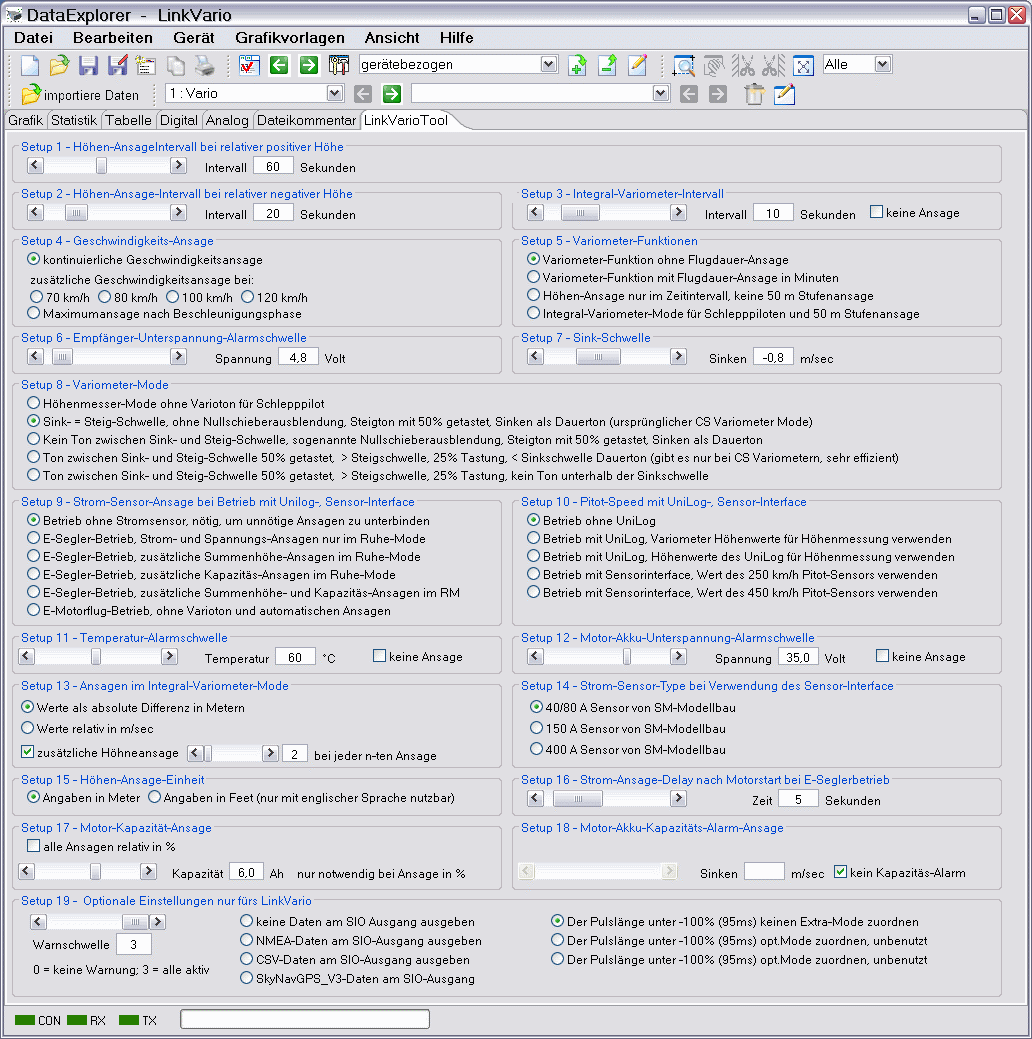
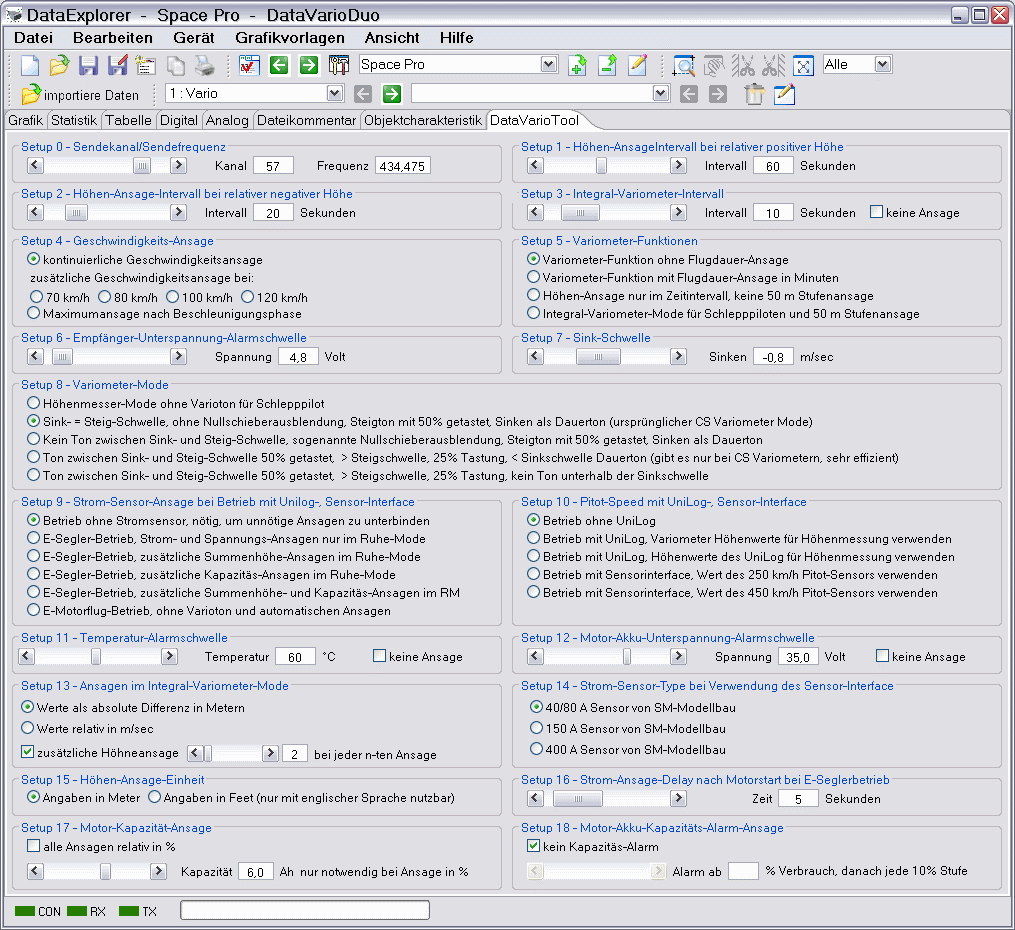
fix error setup 18 DataVarioTool/LinkVarioTool

Changed region(s): [[0.0, 0.0, 1.0, 0.9978]]

diff --git a/WStechVario/src/gde/device/wstech/VarioToolTabItem.java b/WStechVario/src/gde/device/wstech/VarioToolTabItem.java
@@ -40,7 +40,6 @@ import org.eclipse.swt.custom.ScrolledComposite;
 import org.eclipse.swt.events.SelectionAdapter;
 import org.eclipse.swt.events.SelectionEvent;
 import org.eclipse.swt.layout.FillLayout;
-import org.eclipse.swt.layout.GridLayout;
 import org.eclipse.swt.layout.RowData;
 import org.eclipse.swt.layout.RowLayout;
 import org.eclipse.swt.widgets.Button;
@@ -1772,7 +1771,7 @@ public class VarioToolTabItem extends CTabItem {
 							this.setupButton17.setFont(SWTResourceManager.getFont(GDE.WIDGET_FONT_NAME, GDE.WIDGET_FONT_SIZE, SWT.NORMAL));
 							this.setupButton17.setText(Messages.getString(MessageIds.GDE_MSGT1874));
 							RowData setupButton17LData = new RowData();
-							setupButton17LData.width = 460;
+							setupButton17LData.width = 465;
 							setupButton17LData.height = 18;
 							this.setupButton17.setLayoutData(setupButton17LData);
 							this.setupButton17.setSelection((this.setupValue17 & 0x80) == 0x80);
@@ -1793,7 +1792,7 @@ public class VarioToolTabItem extends CTabItem {
 						}
 						{
 							RowData setupSlider17LData = new RowData();
-							setupSlider17LData.width = 139;
+							setupSlider17LData.width = 140;
 							setupSlider17LData.height = 18;
 							this.setupSlider17 = new Slider(this.setupGroup17, SWT.BORDER);
 							this.setupSlider17.setLayoutData(setupSlider17LData);
@@ -1820,7 +1819,7 @@ public class VarioToolTabItem extends CTabItem {
 						{
 							this.setupLabel17a = new CLabel(this.setupGroup17, SWT.RIGHT);
 							RowData setupLabel17aLData = new RowData();
-							setupLabel17aLData.width = 66;
+							setupLabel17aLData.width = 65;
 							setupLabel17aLData.height = 18;
 							this.setupLabel17a.setLayoutData(setupLabel17aLData);
 							this.setupLabel17a.setFont(SWTResourceManager.getFont(GDE.WIDGET_FONT_NAME, GDE.WIDGET_FONT_SIZE, SWT.NORMAL));
@@ -1829,7 +1828,7 @@ public class VarioToolTabItem extends CTabItem {
 						{
 							this.setupText17 = new Text(this.setupGroup17, SWT.CENTER | SWT.BORDER);
 							RowData setupText17LData = new RowData();
-							setupText17LData.width = 29;
+							setupText17LData.width = 30;
 							setupText17LData.height = 12;
 							this.setupText17.setLayoutData(setupText17LData);
 							this.setupText17.setFont(SWTResourceManager.getFont(GDE.WIDGET_FONT_NAME, GDE.WIDGET_FONT_SIZE, SWT.NORMAL));
@@ -1838,20 +1837,11 @@ public class VarioToolTabItem extends CTabItem {
 						{
 							this.setupLabel17b = new CLabel(this.setupGroup17, SWT.LEFT);
 							RowData setupLabel17bLData = new RowData();
-							setupLabel17bLData.width = 24;
+							setupLabel17bLData.width = 210;
 							setupLabel17bLData.height = 18;
 							this.setupLabel17b.setLayoutData(setupLabel17bLData);
 							this.setupLabel17b.setFont(SWTResourceManager.getFont(GDE.WIDGET_FONT_NAME, GDE.WIDGET_FONT_SIZE, SWT.NORMAL));
 							this.setupLabel17b.setText(Messages.getString(MessageIds.GDE_MSGT1876));
-						}
-						{
-							this.setupLabel17c = new CLabel(this.setupGroup17, SWT.NONE);
-							RowData setupLabel17cLData = new RowData();
-							setupLabel17cLData.width = 194;
-							setupLabel17cLData.height = 18;
-							this.setupLabel17c.setLayoutData(setupLabel17cLData);
-							this.setupLabel17c.setFont(SWTResourceManager.getFont(GDE.WIDGET_FONT_NAME, GDE.WIDGET_FONT_SIZE, SWT.NORMAL));
-							this.setupLabel17c.setText(Messages.getString(MessageIds.GDE_MSGT1877));
 						}
 						this.setupGroup17.layout();
 						this.setupGroup17.setMenu(this.popupmenu);
@@ -1864,21 +1854,40 @@ public class VarioToolTabItem extends CTabItem {
 						this.setupGroup18.setText(Messages.getString(MessageIds.GDE_MSGT1878));
 						this.setupGroup18.setBounds(505, 687, 490, 71);
 						{
-							this.fillComposite = new Composite(this.setupGroup18, SWT.NONE);
-							GridLayout fillCompositeLayout = new GridLayout();
-							fillCompositeLayout.makeColumnsEqualWidth = true;
-							this.fillComposite.setLayout(fillCompositeLayout);
-							RowData fillCompositeLData = new RowData();
-							fillCompositeLData.width = 460;
-							fillCompositeLData.height = 12;
-							this.fillComposite.setLayoutData(fillCompositeLData);
+							new CLabel(this.setupGroup18, SWT.NONE).setSize(5, 18);
+						}
+						{
+							this.setupButton18 = new Button(this.setupGroup18, SWT.CHECK | SWT.LEFT);
+							this.setupButton18.setFont(SWTResourceManager.getFont(GDE.WIDGET_FONT_NAME, GDE.WIDGET_FONT_SIZE, SWT.NORMAL));
+							this.setupButton18.setText(Messages.getString(MessageIds.GDE_MSGT1881));
+							RowData setupButton18LData = new RowData();
+							setupButton18LData.width = 470;
+							setupButton18LData.height = 18;
+							this.setupButton18.setLayoutData(setupButton18LData);
+							this.setupButton18.setSelection(this.setupValue18 == 0);
+							this.setupButton18.addSelectionListener(new SelectionAdapter() {
+								public void widgetSelected(SelectionEvent evt) {
+									VarioToolTabItem.log.log(Level.FINEST, "setupButton18.widgetSelected, event=" + evt); //$NON-NLS-1$
+									if (VarioToolTabItem.this.setupButton18.getSelection()) {
+										VarioToolTabItem.this.setupValue18 = 0;
+										VarioToolTabItem.this.setupText18.setText(GDE.STRING_EMPTY);
+										VarioToolTabItem.this.setupSlider18.setEnabled(false);
+									}
+									else {
+										VarioToolTabItem.this.setupValue18 = 20;
+										VarioToolTabItem.this.setupText18.setText(GDE.STRING_EMPTY + VarioToolTabItem.this.setupValue18);
+										VarioToolTabItem.this.setupSlider18.setEnabled(true);
+										VarioToolTabItem.this.setupSlider18.setSelection(VarioToolTabItem.this.setupValue18);
+									}
+								}
+							});
 						}
 						{
 							new CLabel(this.setupGroup18, SWT.NONE).setSize(5, 18);
 						}
 						{
 							RowData setupSlider18LData = new RowData();
-							setupSlider18LData.width = 160;
+							setupSlider18LData.width = 140;
 							setupSlider18LData.height = 18;
 							this.setupSlider18 = new Slider(this.setupGroup18, SWT.BORDER);
 							this.setupSlider18.setLayoutData(setupSlider18LData);
@@ -1906,7 +1915,7 @@ public class VarioToolTabItem extends CTabItem {
 						{
 							this.setupLabel18a = new CLabel(this.setupGroup18, SWT.RIGHT);
 							RowData setupLabel18aLData = new RowData();
-							setupLabel18aLData.width = 60;
+							setupLabel18aLData.width = 55;
 							setupLabel18aLData.height = 18;
 							this.setupLabel18a.setLayoutData(setupLabel18aLData);
 							this.setupLabel18a.setFont(SWTResourceManager.getFont(GDE.WIDGET_FONT_NAME, GDE.WIDGET_FONT_SIZE, SWT.NORMAL));
@@ -1915,7 +1924,7 @@ public class VarioToolTabItem extends CTabItem {
 						{
 							this.setupText18 = new Text(this.setupGroup18, SWT.CENTER | SWT.BORDER);
 							RowData setupText18LData = new RowData();
-							setupText18LData.width = 35;
+							setupText18LData.width = 25;
 							setupText18LData.height = 12;
 							this.setupText18.setLayoutData(setupText18LData);
 							this.setupText18.setFont(SWTResourceManager.getFont(GDE.WIDGET_FONT_NAME, GDE.WIDGET_FONT_SIZE, SWT.NORMAL));
@@ -1926,37 +1935,11 @@ public class VarioToolTabItem extends CTabItem {
 						{
 							this.setupLabel18b = new CLabel(this.setupGroup18, SWT.LEFT);
 							RowData setupLabel18bLData = new RowData();
-							setupLabel18bLData.width = 43;
+							setupLabel18bLData.width = 230;
 							setupLabel18bLData.height = 16;
 							this.setupLabel18b.setLayoutData(setupLabel18bLData);
 							this.setupLabel18b.setFont(SWTResourceManager.getFont(GDE.WIDGET_FONT_NAME, GDE.WIDGET_FONT_SIZE, SWT.NORMAL));
 							this.setupLabel18b.setText(Messages.getString(MessageIds.GDE_MSGT1880));
-						}
-						{
-							this.setupButton18 = new Button(this.setupGroup18, SWT.CHECK | SWT.LEFT);
-							this.setupButton18.setFont(SWTResourceManager.getFont(GDE.WIDGET_FONT_NAME, GDE.WIDGET_FONT_SIZE, SWT.NORMAL));
-							this.setupButton18.setText(Messages.getString(MessageIds.GDE_MSGT1881));
-							RowData setupButton18LData = new RowData();
-							setupButton18LData.width = 144;
-							setupButton18LData.height = 20;
-							this.setupButton18.setLayoutData(setupButton18LData);
-							this.setupButton18.setSelection(this.setupValue18 == 0);
-							this.setupButton18.addSelectionListener(new SelectionAdapter() {
-								public void widgetSelected(SelectionEvent evt) {
-									VarioToolTabItem.log.log(Level.FINEST, "setupButton18.widgetSelected, event=" + evt); //$NON-NLS-1$
-									if (VarioToolTabItem.this.setupButton18.getSelection()) {
-										VarioToolTabItem.this.setupValue18 = 0;
-										VarioToolTabItem.this.setupText18.setText(GDE.STRING_EMPTY);
-										VarioToolTabItem.this.setupSlider18.setEnabled(false);
-									}
-									else {
-										VarioToolTabItem.this.setupValue18 = 20;
-										VarioToolTabItem.this.setupText18.setText(GDE.STRING_EMPTY + VarioToolTabItem.this.setupValue18);
-										VarioToolTabItem.this.setupSlider18.setEnabled(true);
-										VarioToolTabItem.this.setupSlider18.setSelection(VarioToolTabItem.this.setupValue18);
-									}
-								}
-							});
 						}
 						this.setupGroup18.layout();
 						this.setupGroup18.setMenu(this.popupmenu);

diff --git a/WStechVario/src/gde/device/wstech/MessageIds.java b/WStechVario/src/gde/device/wstech/MessageIds.java
@@ -101,7 +101,6 @@ public class MessageIds {
 	public final static String	GDE_MSGT1874 = "GDE_MSGT1874";
 	public final static String	GDE_MSGT1875 = "GDE_MSGT1875";
 	public final static String	GDE_MSGT1876 = "GDE_MSGT1876";
-	public final static String	GDE_MSGT1877 = "GDE_MSGT1877";
 	public final static String	GDE_MSGT1878 = "GDE_MSGT1878";
 	public final static String	GDE_MSGT1879 = "GDE_MSGT1879";
 	public final static String	GDE_MSGT1880 = "GDE_MSGT1880";
